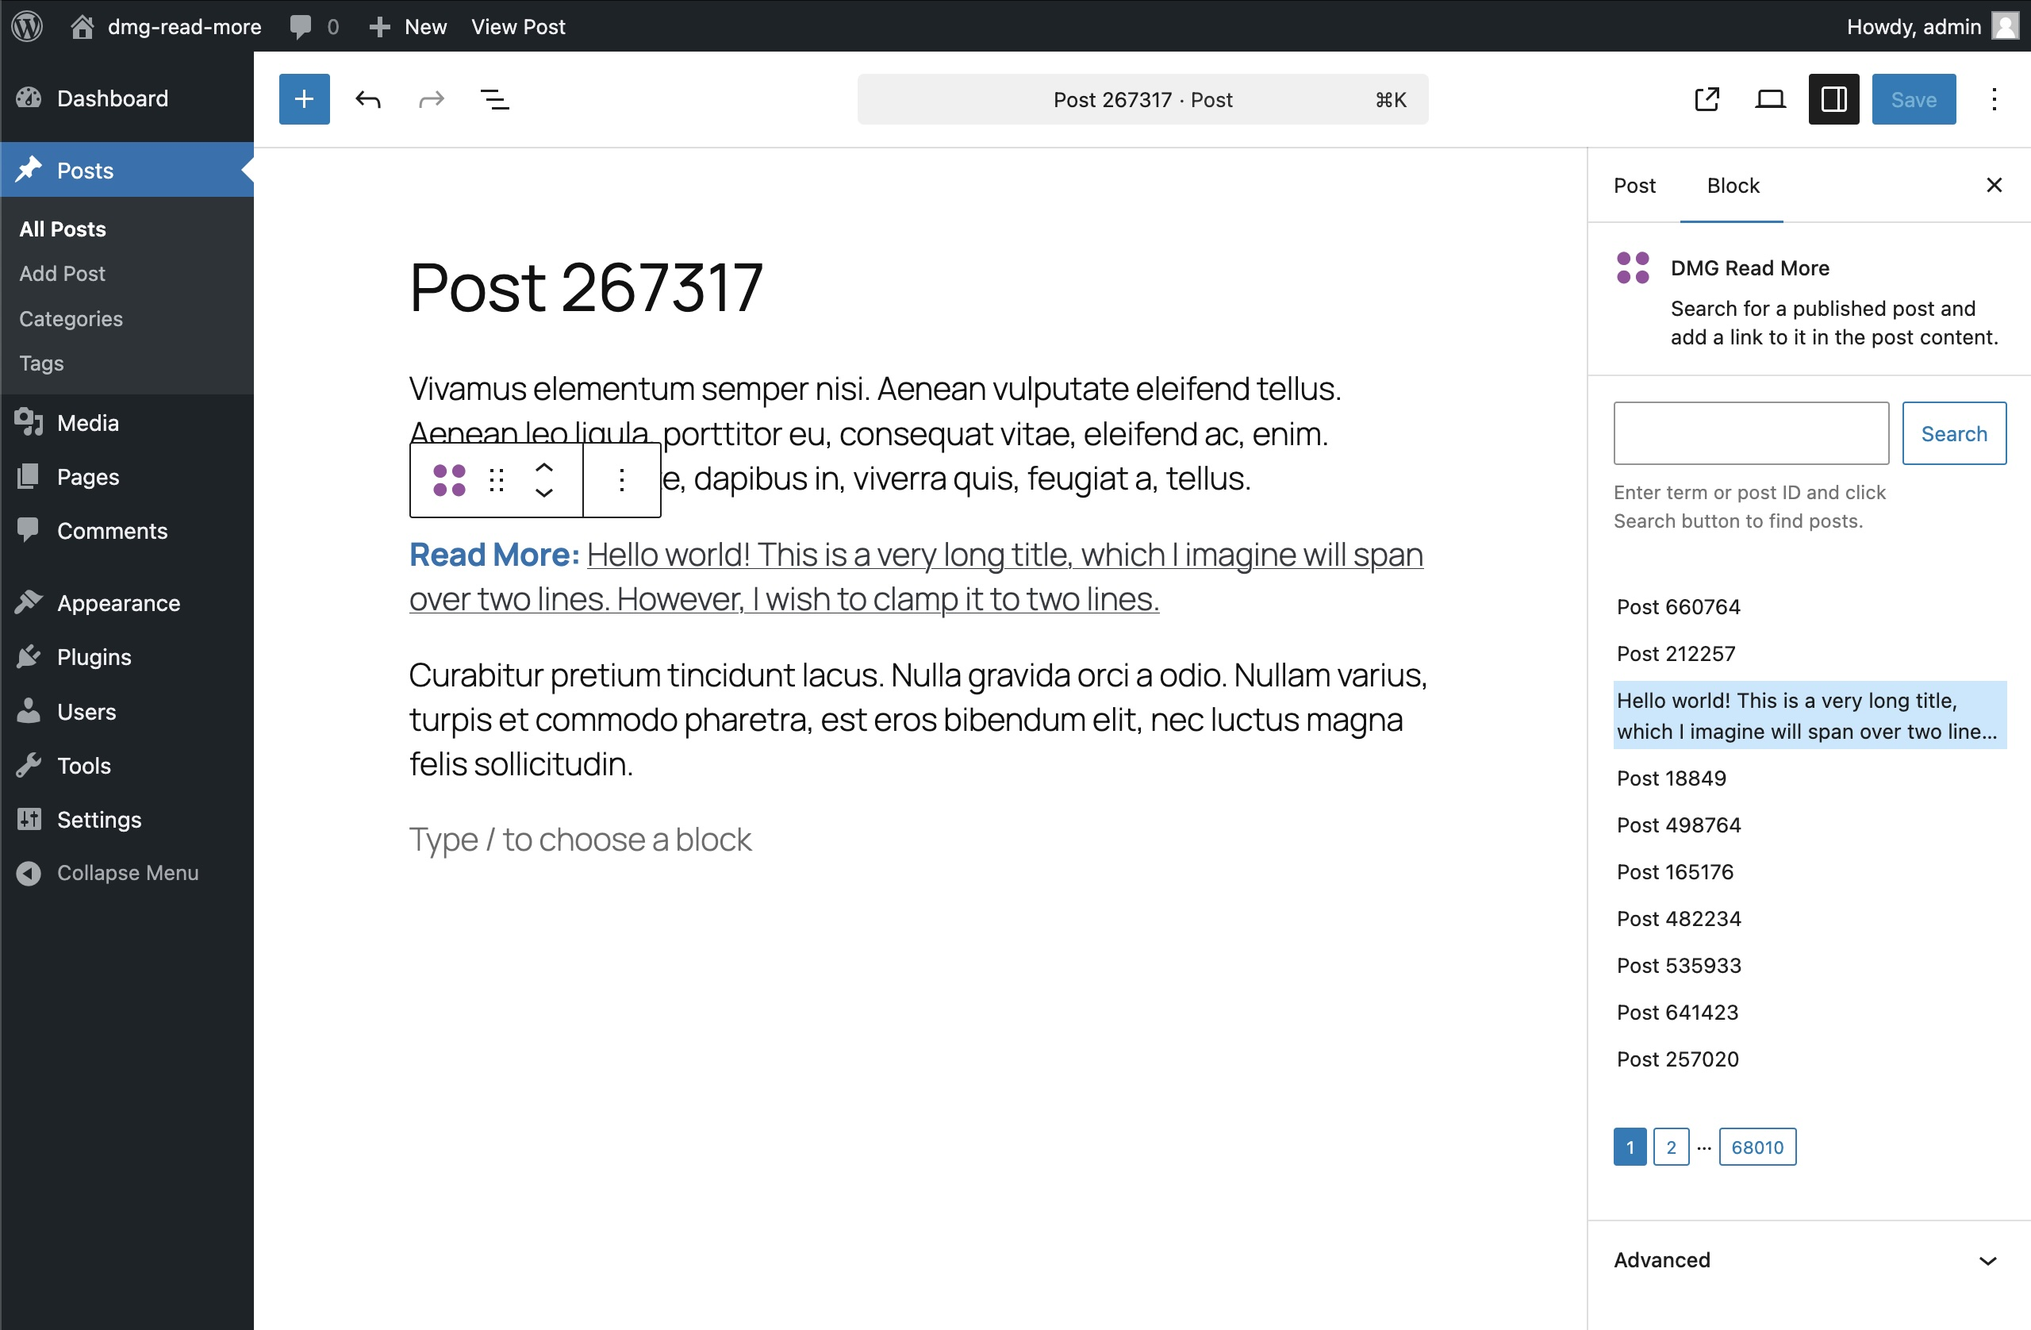
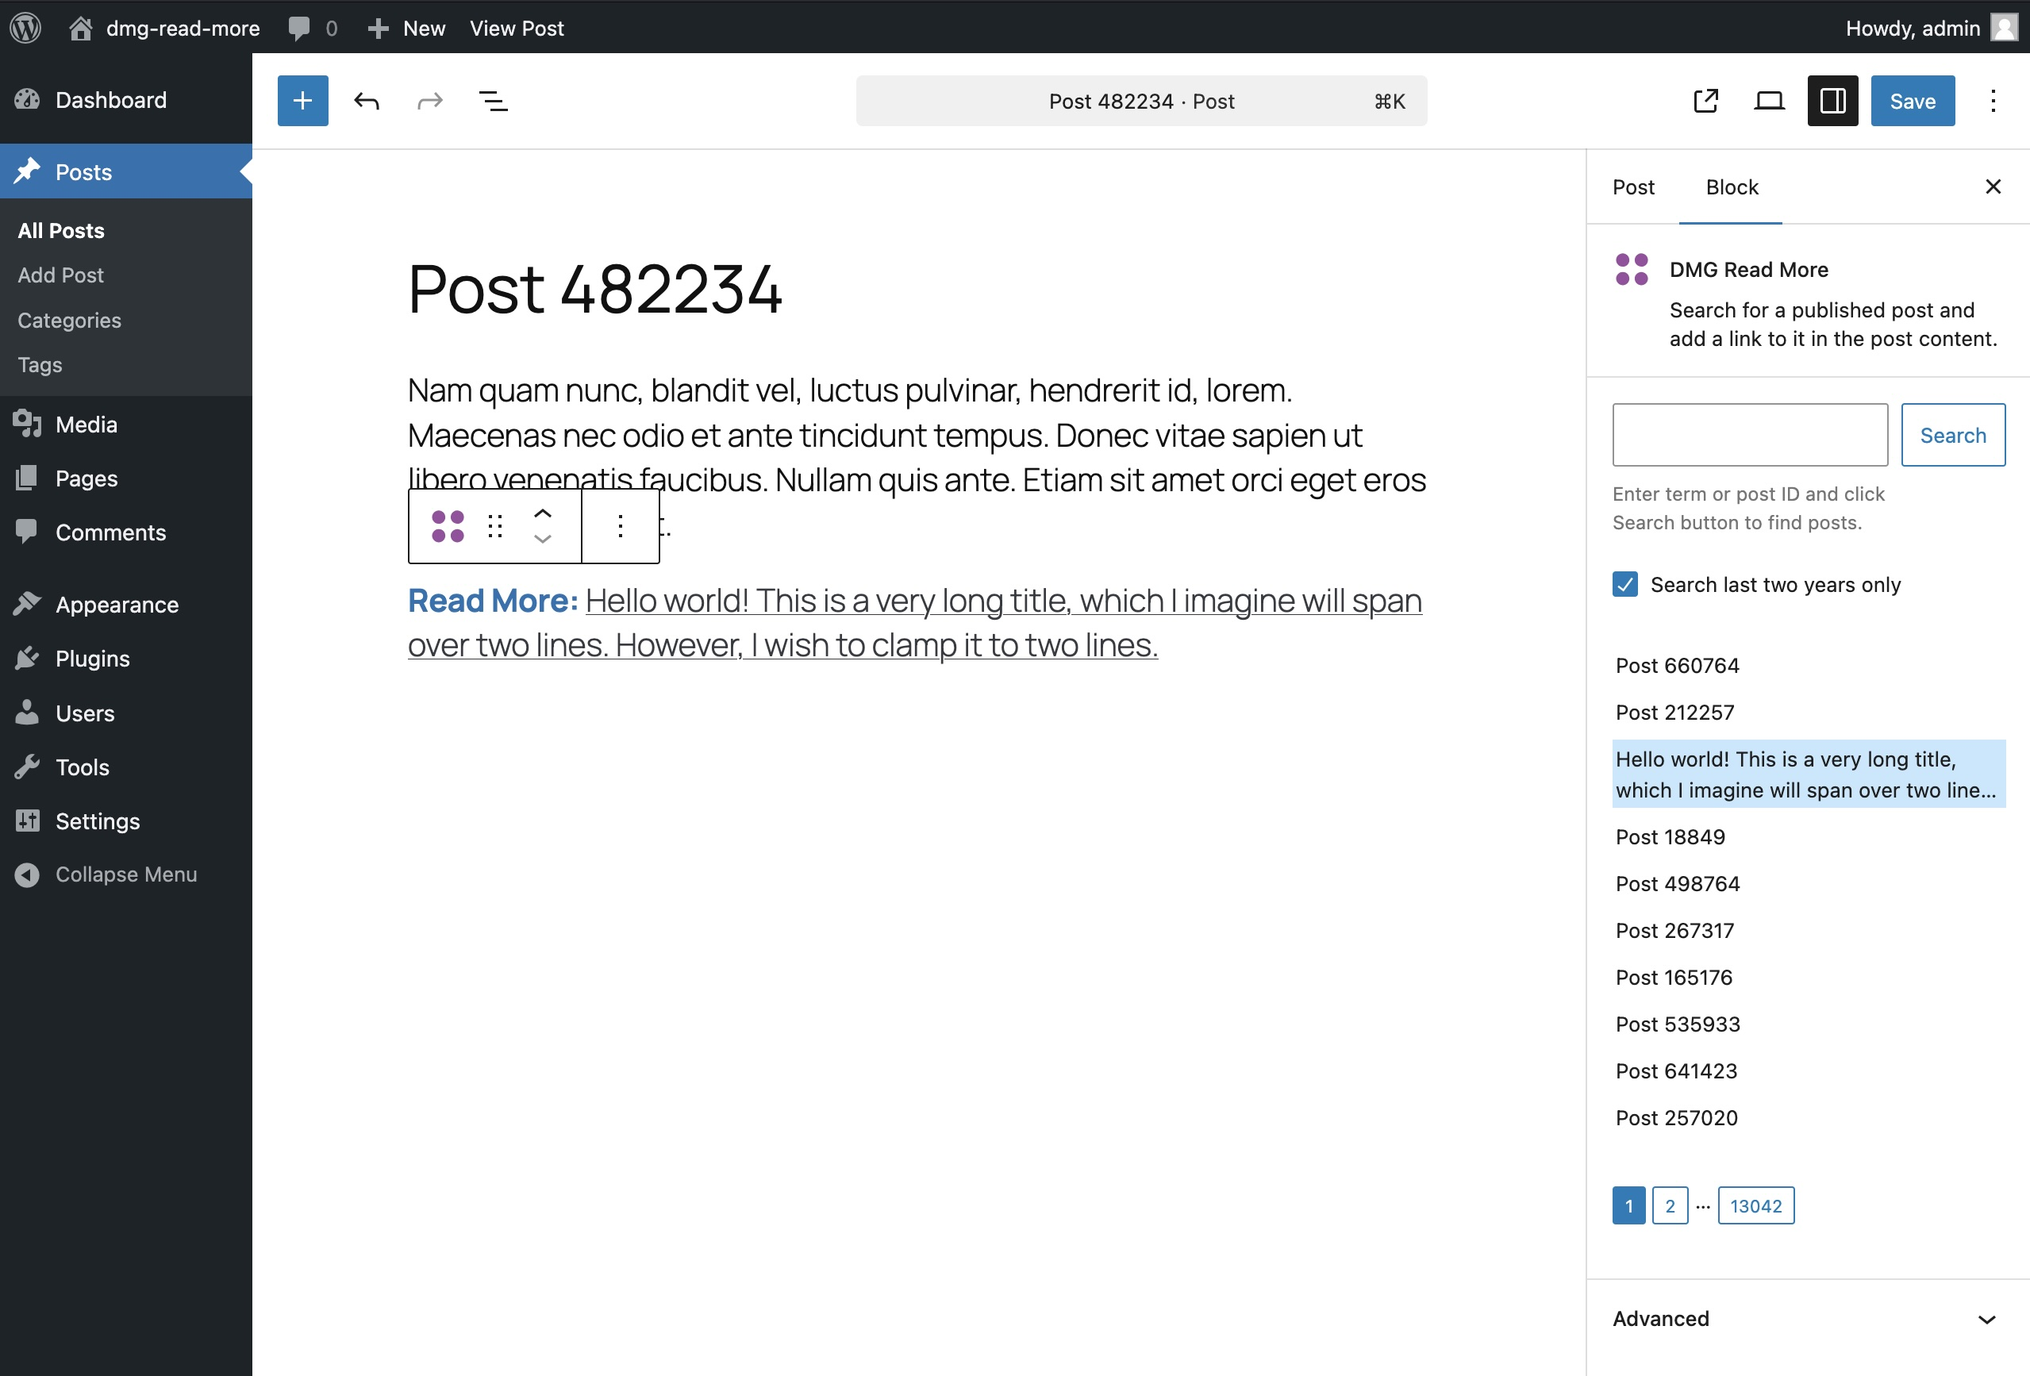
Added "Search last two years only" filter.

diff --git a/plugins/dmg-read-more/build/dmg-read-more/index.js b/plugins/dmg-read-more/build/dmg-read-more/index.js
@@ -115,7 +115,7 @@ function ReadMorePosts({
   selectPost,
   selectedPostId = 0
 }) {
-  if (posts.length === 0) {
+  if (!posts || posts.length === 0) {
     return /*#__PURE__*/(0,react_jsx_runtime__WEBPACK_IMPORTED_MODULE_2__.jsx)("p", {
       children: "No posts found."
     });
@@ -183,16 +183,26 @@ function ReadMore({
   if (currentPostId) baseSearchArgs.exclude = currentPostId;
   const [searchTerm, setSearchTerm] = (0,_wordpress_element__WEBPACK_IMPORTED_MODULE_4__.useState)('');
   const [searchArgs, setSearchArgs] = (0,_wordpress_element__WEBPACK_IMPORTED_MODULE_4__.useState)(baseSearchArgs);
+  const [searchRecent, setSearchRecent] = (0,_wordpress_element__WEBPACK_IMPORTED_MODULE_4__.useState)(true);
+  const twoYearsAgo = new Date();
+  twoYearsAgo.setFullYear(twoYearsAgo.getFullYear() - 2);
+  const twoYearsAgoFormatted = twoYearsAgo.toISOString();
   let postsResult = (0,_wordpress_core_data__WEBPACK_IMPORTED_MODULE_3__.useEntityRecords)('postType', 'post', searchArgs);
   function setSearchOrIdArgs(searchTerm) {
+    const newSearchArgs = {
+      ...baseSearchArgs
+    };
+    if (searchRecent) {
+      newSearchArgs.after = twoYearsAgoFormatted;
+    }
     if (searchTerm !== '' && Number.isInteger(Number(searchTerm))) {
       setSearchArgs({
-        ...baseSearchArgs,
+        ...newSearchArgs,
         include: Number(searchTerm)
       });
     } else {
       setSearchArgs({
-        ...baseSearchArgs,
+        ...newSearchArgs,
         search: searchTerm
       });
     }
@@ -208,11 +218,37 @@ function ReadMore({
     setSearchOrIdArgs(searchTerm);
   }, [searchTerm, setSearchOrIdArgs]);
   const handlePaginationClick = (0,_wordpress_element__WEBPACK_IMPORTED_MODULE_4__.useCallback)(pageNumber => {
-    setSearchArgs({
-      ...searchArgs,
-      page: pageNumber
-    });
-  }, [searchArgs]);
+    const newSearchArgs = {
+      ...baseSearchArgs
+    };
+    if (searchArgs.search) {
+      newSearchArgs.search = searchArgs.search;
+    }
+    if (searchArgs.include) {
+      newSearchArgs.include = searchArgs.include;
+    }
+    if (searchRecent) {
+      newSearchArgs.after = twoYearsAgoFormatted;
+    }
+    newSearchArgs.page = pageNumber;
+    setSearchArgs(newSearchArgs);
+  }, [searchArgs, searchRecent, baseSearchArgs, twoYearsAgoFormatted]);
+  const handleCheckboxChange = (0,_wordpress_element__WEBPACK_IMPORTED_MODULE_4__.useCallback)(() => {
+    const newSearchRecent = !searchRecent;
+    setSearchRecent(newSearchRecent);
+    const updatedArgs = {
+      ...searchArgs
+    };
+
+    // We always reset to page 1 when the filter is toggled.
+    updatedArgs.page = 1;
+    if (newSearchRecent) {
+      updatedArgs.after = twoYearsAgoFormatted;
+    } else {
+      delete updatedArgs.after;
+    }
+    setSearchArgs(updatedArgs);
+  }, [searchRecent, searchArgs, twoYearsAgoFormatted]);
   const renderLoadingList = (0,_wordpress_element__WEBPACK_IMPORTED_MODULE_4__.useCallback)(({
     className
   }) => /*#__PURE__*/(0,react_jsx_runtime__WEBPACK_IMPORTED_MODULE_6__.jsxs)("div", {
@@ -241,6 +277,14 @@ function ReadMore({
           text: "Search",
           isBusy: postsResult?.isResolving
         })]
+      }), /*#__PURE__*/(0,react_jsx_runtime__WEBPACK_IMPORTED_MODULE_6__.jsx)(_wordpress_components__WEBPACK_IMPORTED_MODULE_1__.PanelRow, {
+        className: "read-more__checkbox",
+        children: /*#__PURE__*/(0,react_jsx_runtime__WEBPACK_IMPORTED_MODULE_6__.jsx)(_wordpress_components__WEBPACK_IMPORTED_MODULE_1__.CheckboxControl, {
+          __nextHasNoMarginBottom: true,
+          checked: searchRecent,
+          label: "Search last two years only",
+          onChange: handleCheckboxChange
+        })
       }), postsResult?.isResolving ? /*#__PURE__*/(0,react_jsx_runtime__WEBPACK_IMPORTED_MODULE_6__.jsx)(_wordpress_components__WEBPACK_IMPORTED_MODULE_1__.PanelRow, {
         className: "read-more__posts read-more__posts--loading",
         children: /*#__PURE__*/(0,react_jsx_runtime__WEBPACK_IMPORTED_MODULE_6__.jsx)(_wordpress_components__WEBPACK_IMPORTED_MODULE_1__.Animate, {

diff --git a/plugins/dmg-read-more/build/dmg-read-more/index.css b/plugins/dmg-read-more/build/dmg-read-more/index.css
@@ -1,1 +1,65 @@
-.block-editor-block-inspector .components-base-control.read-more__search-input{margin-bottom:0;margin-right:.5rem}.block-editor-block-inspector .read-more__inputs{align-items:flex-start}.block-editor-block-inspector .read-more__inputs .components-button,.block-editor-block-inspector .read-more__inputs .components-text-control__input{height:40px}.block-editor-block-inspector .read-more__posts{flex-wrap:wrap}.block-editor-block-inspector .read-more__posts--loading .components-animate__loading{align-items:center;display:flex;flex-wrap:wrap;justify-content:space-between;overflow:hidden;width:100%}.block-editor-block-inspector .read-more__posts--loading ul{width:100%}.block-editor-block-inspector .read-more__posts--loading .read-more__post{background:#f6f6f6;height:1.5em;width:100%}.block-editor-block-inspector .read-more__posts--loading .read-more__pagination{background:#f6f6f6;min-height:1.4em}.block-editor-block-inspector .read-more__post{box-sizing:content-box;display:-webkit-box;-webkit-line-clamp:2;-webkit-box-orient:vertical;line-height:1.5;max-height:3em;overflow:hidden;padding:2px;text-overflow:ellipsis}.block-editor-block-inspector .read-more__post--selected{background:rgba(142,209,252,.5)}.block-editor-block-inspector .read-more__pagination{display:flex;flex:1 1 100%;flex-wrap:wrap;gap:.25rem}
+/*!******************************************************************************************************************************************************************************************************************************************************!*\
+  !*** css ./node_modules/css-loader/dist/cjs.js??ruleSet[1].rules[4].use[1]!./node_modules/postcss-loader/dist/cjs.js??ruleSet[1].rules[4].use[2]!./node_modules/sass-loader/dist/cjs.js??ruleSet[1].rules[4].use[3]!./src/dmg-read-more/editor.scss ***!
+  \******************************************************************************************************************************************************************************************************************************************************/
+.block-editor-block-inspector .components-base-control.read-more__search-input {
+  margin-bottom: 0;
+  margin-right: 0.5rem;
+}
+.block-editor-block-inspector .read-more__inputs {
+  align-items: flex-start;
+}
+.block-editor-block-inspector .read-more__inputs .components-button,
+.block-editor-block-inspector .read-more__inputs .components-text-control__input {
+  height: 40px;
+}
+.block-editor-block-inspector .read-more__checkbox {
+  margin-top: 0;
+}
+.block-editor-block-inspector .read-more__checkbox .components-checkbox-control__label {
+  max-width: 95%;
+}
+.block-editor-block-inspector .read-more__posts {
+  flex-wrap: wrap;
+}
+.block-editor-block-inspector .read-more__posts--loading .components-animate__loading {
+  align-items: center;
+  display: flex;
+  flex-wrap: wrap;
+  justify-content: space-between;
+  overflow: hidden;
+  width: 100%;
+}
+.block-editor-block-inspector .read-more__posts--loading ul {
+  width: 100%;
+}
+.block-editor-block-inspector .read-more__posts--loading .read-more__post {
+  background: #f6f6f6;
+  height: 1.5em;
+  width: 100%;
+}
+.block-editor-block-inspector .read-more__posts--loading .read-more__pagination {
+  background: #f6f6f6;
+  min-height: 1.4em;
+}
+.block-editor-block-inspector .read-more__post {
+  box-sizing: content-box;
+  display: -webkit-box;
+  -webkit-line-clamp: 2;
+  -webkit-box-orient: vertical;
+  line-height: 1.5;
+  overflow: hidden;
+  padding: 2px;
+  text-overflow: ellipsis;
+  max-height: 3em; /* Fallback for browsers that don't support line-clamp */
+}
+.block-editor-block-inspector .read-more__post--selected {
+  background: rgba(142, 209, 252, 0.5);
+}
+.block-editor-block-inspector .read-more__pagination {
+  display: flex;
+  flex: 1 1 100%;
+  flex-wrap: wrap;
+  gap: 0.25rem;
+}
+
+/*# sourceMappingURL=index.css.map*/

diff --git a/plugins/dmg-read-more/src/dmg-read-more/components/read-more.tsx b/plugins/dmg-read-more/src/dmg-read-more/components/read-more.tsx
@@ -2,6 +2,7 @@ import { InspectorControls } from '@wordpress/block-editor';
 import {
 	Animate,
 	Button,
+	CheckboxControl,
 	TextControl,
 	PanelBody,
 	PanelRow
@@ -23,13 +24,18 @@ export default function ReadMore( { selectPost, selectedPostId }: ReadMoreProps 
 	const baseSearchArgs: SearchArgs = {
 		_fields: [ 'id', 'title', 'link' ],
 		per_page: 10,
-		search: ''
+		search: '',
 	};
 	const currentPostId = select( 'core/editor' ).getCurrentPostId();
 	if ( currentPostId ) baseSearchArgs.exclude = currentPostId;
 
 	const [ searchTerm, setSearchTerm ] = useState( '' );
 	const [ searchArgs, setSearchArgs ] = useState( baseSearchArgs );
+	const [ searchRecent, setSearchRecent ] = useState( true );
+
+	const twoYearsAgo = new Date();
+	twoYearsAgo.setFullYear( twoYearsAgo.getFullYear() - 2 );
+	const twoYearsAgoFormatted = twoYearsAgo.toISOString();
 
 	let postsResult = useEntityRecords(
 		'postType',
@@ -38,10 +44,16 @@ export default function ReadMore( { selectPost, selectedPostId }: ReadMoreProps 
 	);
 
 	function setSearchOrIdArgs( searchTerm: string | number ) {
+		const newSearchArgs = { ...baseSearchArgs };
+
+		if ( searchRecent ) {
+			newSearchArgs.after = twoYearsAgoFormatted;
+		}
+
 		if ( searchTerm !== '' && Number.isInteger( Number( searchTerm ) ) ) {
-			setSearchArgs( { ...baseSearchArgs, include: Number( searchTerm ) } );
+			setSearchArgs( { ...newSearchArgs, include: Number( searchTerm ) } );
 		} else {
-			setSearchArgs( { ...baseSearchArgs, search: searchTerm as string } );
+			setSearchArgs( { ...newSearchArgs, search: searchTerm as string } );
 		}
 	}
 
@@ -61,10 +73,44 @@ export default function ReadMore( { selectPost, selectedPostId }: ReadMoreProps 
 
 	const handlePaginationClick = useCallback(
 		( pageNumber: number ) => {
-			setSearchArgs( { ...searchArgs, page: pageNumber } );
+			const newSearchArgs = { ...baseSearchArgs };
+
+			if ( searchArgs.search ) {
+				newSearchArgs.search = searchArgs.search;
+			}
+
+			if ( searchArgs.include ) {
+				newSearchArgs.include = searchArgs.include;
+			}
+
+			if ( searchRecent ) {
+				newSearchArgs.after = twoYearsAgoFormatted;
+			}
+
+			newSearchArgs.page = pageNumber;
+
+			setSearchArgs( newSearchArgs );
 		},
-		[ searchArgs ]
+		[ searchArgs, searchRecent, baseSearchArgs, twoYearsAgoFormatted ]
 	);
+
+	const handleCheckboxChange = useCallback( () => {
+		const newSearchRecent = ! searchRecent;
+		setSearchRecent( newSearchRecent );
+
+		const updatedArgs = { ...searchArgs };
+
+		// We always reset to page 1 when the filter is toggled.
+		updatedArgs.page = 1;
+
+		if ( newSearchRecent ) {
+			updatedArgs.after = twoYearsAgoFormatted;
+		} else {
+			delete updatedArgs.after;
+		}
+
+		setSearchArgs( updatedArgs );
+	}, [ searchRecent, searchArgs, twoYearsAgoFormatted ] );
 
 	const renderLoadingList = useCallback( ( { className } ) => (
 		<div className={ className }>
@@ -93,6 +139,14 @@ export default function ReadMore( { selectPost, selectedPostId }: ReadMoreProps 
 						onClick={ handleSearchButtonClick }
 						text="Search"
 						isBusy={ postsResult?.isResolving }
+					/>
+				</PanelRow>
+				<PanelRow className="read-more__checkbox">
+					<CheckboxControl
+						__nextHasNoMarginBottom
+						checked={ searchRecent }
+						label="Search last two years only"
+						onChange={ handleCheckboxChange }
 					/>
 				</PanelRow>
 				{

diff --git a/plugins/dmg-read-more/build/dmg-read-more/style-index.css b/plugins/dmg-read-more/build/dmg-read-more/style-index.css
@@ -1,1 +1,12 @@
-.dmg-read-more{color:#363b3f}.dmg-read-more span{color:#2271b1;font-weight:700}
+/*!*****************************************************************************************************************************************************************************************************************************************************!*\
+  !*** css ./node_modules/css-loader/dist/cjs.js??ruleSet[1].rules[4].use[1]!./node_modules/postcss-loader/dist/cjs.js??ruleSet[1].rules[4].use[2]!./node_modules/sass-loader/dist/cjs.js??ruleSet[1].rules[4].use[3]!./src/dmg-read-more/style.scss ***!
+  \*****************************************************************************************************************************************************************************************************************************************************/
+.dmg-read-more {
+  color: #363b3f;
+}
+.dmg-read-more span {
+  color: #2271b1;
+  font-weight: bold;
+}
+
+/*# sourceMappingURL=style-index.css.map*/

diff --git a/plugins/dmg-read-more/build/dmg-read-more/index-rtl.css b/plugins/dmg-read-more/build/dmg-read-more/index-rtl.css
@@ -12,6 +12,12 @@
 .block-editor-block-inspector .read-more__inputs .components-text-control__input {
   height: 40px;
 }
+.block-editor-block-inspector .read-more__checkbox {
+  margin-top: 0;
+}
+.block-editor-block-inspector .read-more__checkbox .components-checkbox-control__label {
+  max-width: 95%;
+}
 .block-editor-block-inspector .read-more__posts {
   flex-wrap: wrap;
 }

diff --git a/plugins/dmg-read-more/src/dmg-read-more/types.ts b/plugins/dmg-read-more/src/dmg-read-more/types.ts
@@ -8,10 +8,11 @@ export type Post = {
 }
 
 export type SearchArgs = {
-	per_page?: number;
-	exclude?: number | number[];
-	search?: string;
-	page?: number;
-	include?: number | number[];
-	_fields?: string | string[];
-}
+  _fields?: string[];
+  per_page?: number;
+  search?: string;
+  include?: number;
+  exclude?: number;
+  page?: number;
+  after?: string;
+};

diff --git a/plugins/dmg-read-more/src/dmg-read-more/components/read-more-posts.tsx b/plugins/dmg-read-more/src/dmg-read-more/components/read-more-posts.tsx
@@ -19,7 +19,7 @@ export function ReadMorePosts( {
 	selectPost,
 	selectedPostId = 0,
 }: ReadMorePostsProps ) {
-	if ( posts.length === 0 ) {
+	if ( ! posts || posts.length === 0 ) {
 		return (
 			<p>No posts found.</p>
 		);

diff --git a/plugins/dmg-read-more/src/dmg-read-more/editor.scss b/plugins/dmg-read-more/src/dmg-read-more/editor.scss
@@ -13,6 +13,14 @@
 		}
 	}
 
+	.read-more__checkbox {
+		margin-top: 0;
+
+		.components-checkbox-control__label {
+			max-width: 95%;
+		}
+	}
+
 	.read-more__posts {
 		flex-wrap: wrap;
 	}

diff --git a/plugins/dmg-read-more/build/dmg-read-more/index.asset.php b/plugins/dmg-read-more/build/dmg-read-more/index.asset.php
@@ -1,1 +1,1 @@
-<?php return array('dependencies' => array('react-jsx-runtime', 'wp-block-editor', 'wp-blocks', 'wp-components', 'wp-core-data', 'wp-data', 'wp-element'), 'version' => '13071d8f8a5f60c60916');
+<?php return array('dependencies' => array('react-jsx-runtime', 'wp-block-editor', 'wp-blocks', 'wp-components', 'wp-core-data', 'wp-data', 'wp-element'), 'version' => '1b8a2ae165176b2c5bb5');

diff --git a/README.md b/README.md
@@ -12,12 +12,13 @@ The plugin supports WordPress 6.6 and PHP 7.4 and above.
 
 ## Usage
 
-1. Upload the [plugin zip file](https://github.com/andfinally/dmg-read-more/raw/refs/heads/main/dmg-read-more.zip) to your WordPress site.
+1. Upload the [plugin zip file](./dmg-read-more.zip) to your WordPress site.
 2. Activate the plugin on the plugins page in WordPress admin.
 3. Create or edit a post and search for `dmg/read-more` in the block picker.
-4. Insert the block in the post. Now use the input in the block settings to search for another post. You can search by post ID as well as search string.
-5. When you select a post in the search results, it will be set to be displayed in the parent post with a "Read More" label.
-6. A WP-CLI command allows you to find posts which contain this block. You can pass `date-after` and `date-before` parameters. Without these, it will search posts published in the last 30 days. Example command: `wp-env run cli wp dmg-read-more search --date-after=2020-01-01`.
+4. Insert the block in the post. By default, you'll see a list of the latest published posts in the block settings.
+5. Use the input in the block settings to search for another post. You can search by post ID as well as search string. If you uncheck the "Search last two years only" checkbox, you can search for older posts. Use the pagination buttons to page through the results.  
+6. When you click on a post in the search results, it will be set to be displayed in the parent post with a "Read More" label.
+7. A WP-CLI command allows you to find posts which contain this block. You can pass `date-after` and `date-before` parameters. Without these, it will search posts published in the last 30 days. Example command: `wp-env run cli wp dmg-read-more search --date-after=2020-01-01`.
 
 ## Files
 
@@ -27,8 +28,7 @@ The plugin supports WordPress 6.6 and PHP 7.4 and above.
 
 ## Future enhancements
 
-- For better performance on WordPress sites with a very large number of posts, we could include a `date_query` parameter to the search args to limit the scope to the last two years.
-- If we needed further improvements, we could add a custom REST endpoint and cache common search results in transients.
+- For better performance on WordPress sites with a very large number of posts, we could use a custom REST endpoint and cache common search results in transients.
 - We could add support for older WordPress versions using a [polyfill](https://github.com/WordPress/gutenberg/issues/62202#issuecomment-2156796649). See https://make.wordpress.org/core/2024/06/06/jsx-in-wordpress-6-6/.
 
 ## Screenshot
